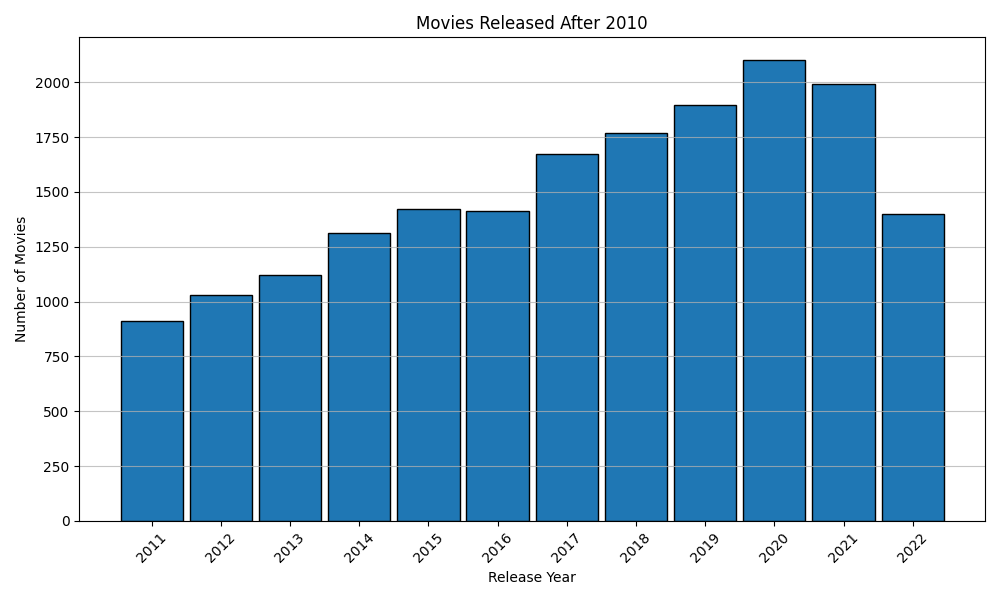
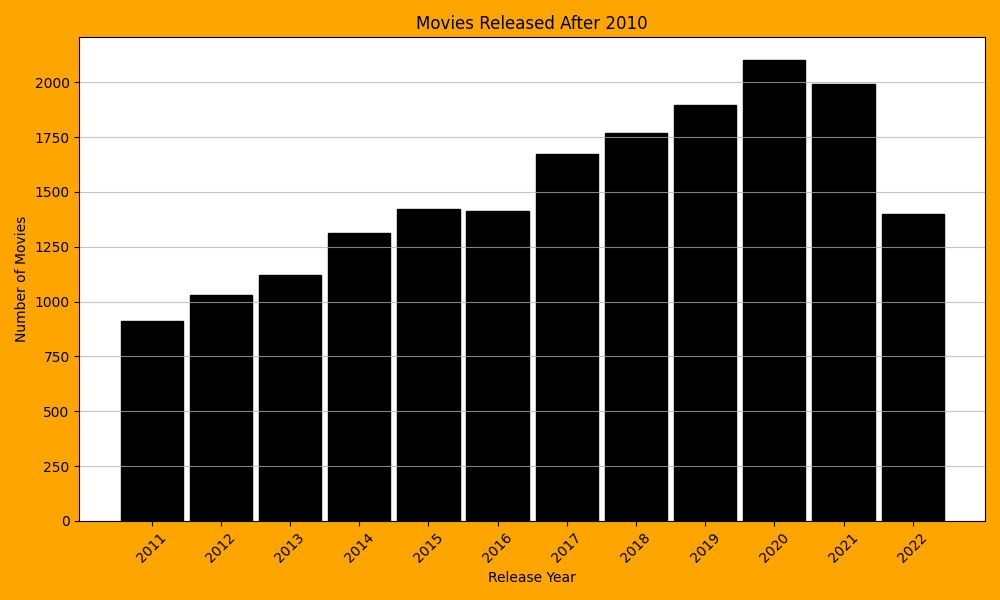
some changes here, some changes there

diff --git a/src/analysis.py b/src/analysis.py
@@ -85,7 +85,7 @@ def count_movies_by_year_after(df: pd.DataFrame, year: int) -> pd.Series:
     return filtered_years.value_counts().sort_index()
 
 @log_execution
-def plot_movies(df: pd.DataFrame, year: int, show_plot: bool = True) -> pd.Series:
+def plot_movies(df: pd.DataFrame, year: int) -> pd.Series:
     """
     Plot a histogram showing how many movies were released each year after a given year.
 
@@ -107,6 +107,7 @@ def plot_movies(df: pd.DataFrame, year: int, show_plot: bool = True) -> pd.Serie
         yearly_counts.index,
         bins=range(year + 1, yearly_counts.index.max() + 2),
         weights=yearly_counts.values,
+        color="black",
         edgecolor="black",
         align="left",
         rwidth=0.9,
@@ -116,13 +117,9 @@ def plot_movies(df: pd.DataFrame, year: int, show_plot: bool = True) -> pd.Serie
     plt.ylabel("Number of Movies")
     plt.xticks(yearly_counts.index, rotation=45)
     plt.grid(axis="y", alpha=0.75)
+    plt.gcf().set_facecolor("orange")
     plt.tight_layout()
-    plt.savefig("movies_by_year.png")  # Save the plot as an image file
-
-    if show_plot:
-        plt.show()
-    else:
-        plt.close()
+    plt.savefig("data/movies_by_year.png")  # Save the plot as an image file
 
     return yearly_counts
 
@@ -136,9 +133,9 @@ if __name__ == "__main__":
 
 
 
-import seaborn as sns
-plt.figure(figsize=(17,7))
-ax = sns.countplot(x='vote_average',  data= df)
-ax.set(title = "average vote distribution", xlabel="vote average", ylabel = "Total Count")
-plt.xticks(rotation=60)
-plt.show()
+# import seaborn as sns
+# plt.figure(figsize=(17,7))
+# ax = sns.countplot(x='vote_average',  data= df)
+# ax.set(title = "average vote distribution", xlabel="vote average", ylabel = "Total Count")
+# plt.xticks(rotation=60)
+# plt.show()

diff --git a/src/cli.py b/src/cli.py
@@ -199,7 +199,7 @@ def presentation() -> None:
     clear_terminal(line_endings=0)
 
     # open matplot of yearly movies released past 2010
-    with Image.open("..data/movies_by_year.png") as img:
+    with Image.open("data/movies_by_year.png") as img:
         print(f"Format: {img.format}, Size: {img.size}, Mode: {img.mode}")
         img.show()
     
